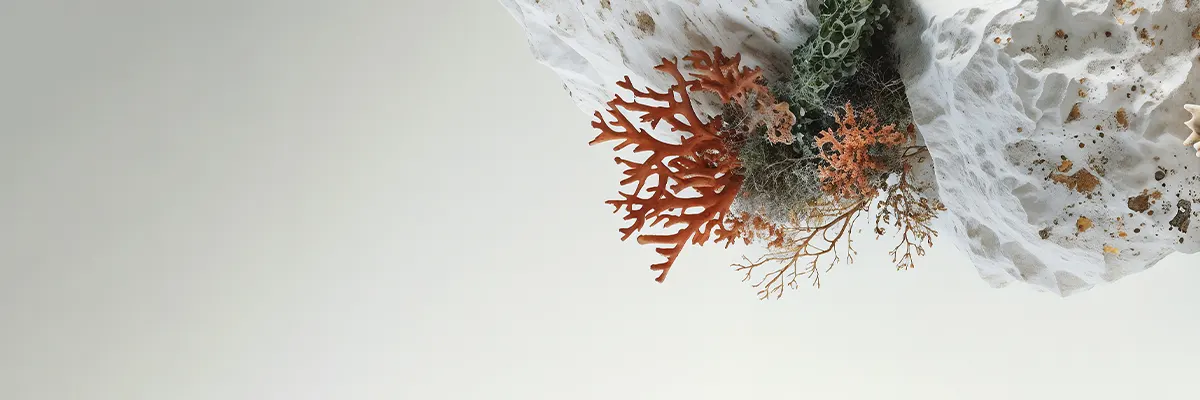
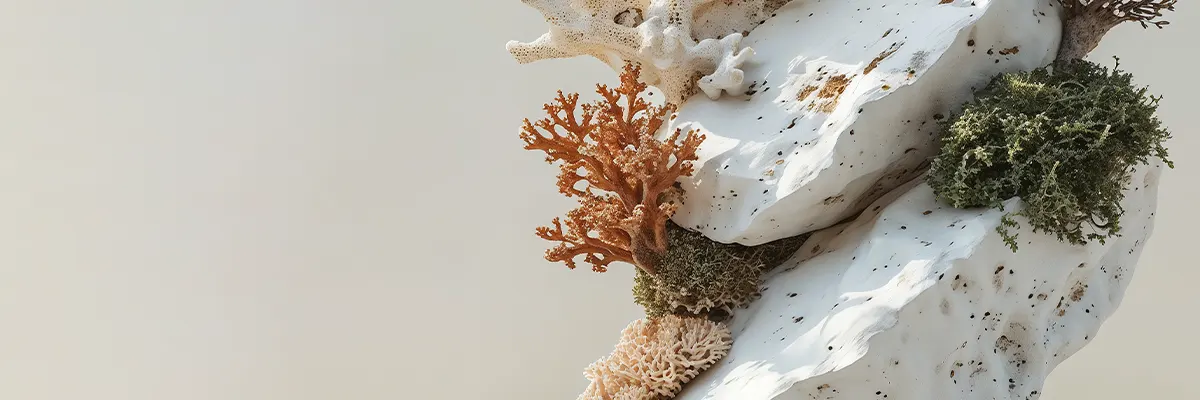
ui fixes

diff --git a/credbone/src/styles/colorData.ts b/credbone/src/styles/colorData.ts
@@ -4,16 +4,24 @@ export const colors = [
   { code: "#544f9a", name: "Indigo", description: "A deep blueish-purple color." },
   { code: "#0066ff", name: "Blue", description: "A vibrant blue color." },
   { code: "#598b7f", name: "Teal", description: "A greenish-blue shade." },
+  { code: "#8fa17b", name: "Sage", description: "A soft gray-green that bridges teal and green." },
   { code: "#adbb88", name: "Green", description: "A classic green color." },
+  { code: "#7a7b53", name: "Moss", description: "A muted earthy tone leading toward olive." },
+  { code: "#5f6040", name: "Olive", description: "A grounded, natural greenish-brown." },
+  { code: "#b7a15c", name: "Sand", description: "A warm tan tone between olive and yellow." },
   { code: "#ebd187", name: "Yellow", description: "A bright yellow hue." },
-  { code: "#e7a35f", name: "Amber", description: "A warm golden-orange bridging yellow and copper." },
-  { code: "#c35731", name: "Copper", description: "A warm reddish-brown tone with metallic depth." },
-  { code: "#d96a45", name: "Terracotta", description: "A soft clay-like orange that eases transition to coral." },
-  { code: "#ff8c6a", name: "Coral", description: "A warm orange-pink shade." },
+  { code: "#e7a35f", name: "Amber", description: "A golden-orange bridging yellow and copper." },
+  // { code: "#cf6a37", name: "Rust", description: "A darker orange-brown blending amber and copper." },
+  // { code: "#c35731", name: "Copper", description: "A warm reddish-brown tone with metallic depth." },
+  { code: "#d46a3d", name: "Clay", description: "A soft earthy orange easing transition from copper." },
+  { code: "#e97a56", name: "Terracotta", description: "A clay-red shade connecting copper and coral." },
+  // { code: "#ff8c6a", name: "Coral", description: "A warm orange-pink shade." },
+  // { code: "#ffa88a", name: "Salmon", description: "A soft pinkish-orange bridging coral and peach." },
   { code: "#ffb497", name: "Peach", description: "A soft, pastel peach shade.", separator: "true" },
   { code: "#03dac5", name: "Mint", description: "A refreshing greenish-blue color." },
   { code: "#e0e721", name: "Neon Yellow", description: "A bright, high-energy yellow hue." },
 ];
+
 
 
 

diff --git a/credbone/src/template/utils/richTumbnail.tsx b/credbone/src/template/utils/richTumbnail.tsx
@@ -1,6 +1,6 @@
 export const typefacecontent = ( <> <text data-weight="700" data-text-size="display-md">Aa</text> </> )
 export const colorcontent = (
-  <group data-space-vertical="10" data-interact="" data-length="120">
+  <group data-space-vertical="10" data-interact="" data-length="115">
     <group data-contain=""  data-wrap="no">
       <group data-ratio="1:1" data-radius="full" data-background="main-soft" data-index="3"></group>
       <group data-ratio="1:1" data-radius="full" data-backdrop="10-main-color"data-index="2" data-margin-horizontal="-15"></group>

diff --git a/credbone/src/template/TooltipPopover.tsx b/credbone/src/template/TooltipPopover.tsx
@@ -7,7 +7,7 @@ import Count from "../components/Coutner";
 
 import Calculator from "../tools/Calculator";
 
-import sampleImage from "../styles/images/samples/wide_res_66.webp";
+import sampleImage from "../styles/images/samples/wide_res_68.webp";
 import sectionImage from "../styles/images/samples/wide_res_72.webp";
 import TooltipPropsDemo from "./TooltipPropsDemo";
 import TemplatePageHeader from "./TemplatePageHeader";

diff --git a/credbone/src/styles/skin.ts b/credbone/src/styles/skin.ts
@@ -1,8 +1,8 @@
 import { Shade } from "shade-generator/dist/models";
 import { ShadeGenerator } from "shade-generator/dist/shadeGenerator";
 
-export const defaultPrimaryColor = "#c35731";
-export const defaultSecondaryColor = "#2D3E75";
+export const defaultPrimaryColor = "#5f6040";
+export const defaultSecondaryColor = "#AA562C";
 
 export type ColorPalette = {
 

diff --git a/credbone/src/styles/base/control.css b/credbone/src/styles/base/control.css
@@ -363,6 +363,7 @@ text[data-width="auto"]{width: initial;}
 [data-length="100"] { width: 100px; }
 [data-length="110"] { width: 110px; } 
 [data-length="120"] { width: 120px; } 
+[data-length="115"] { width: 115px; } 
 [data-length="130"] { width: 130px; } 
 [data-length="140"] { width: 140px; } 
 [data-length="150"] { width: 150px; } 
